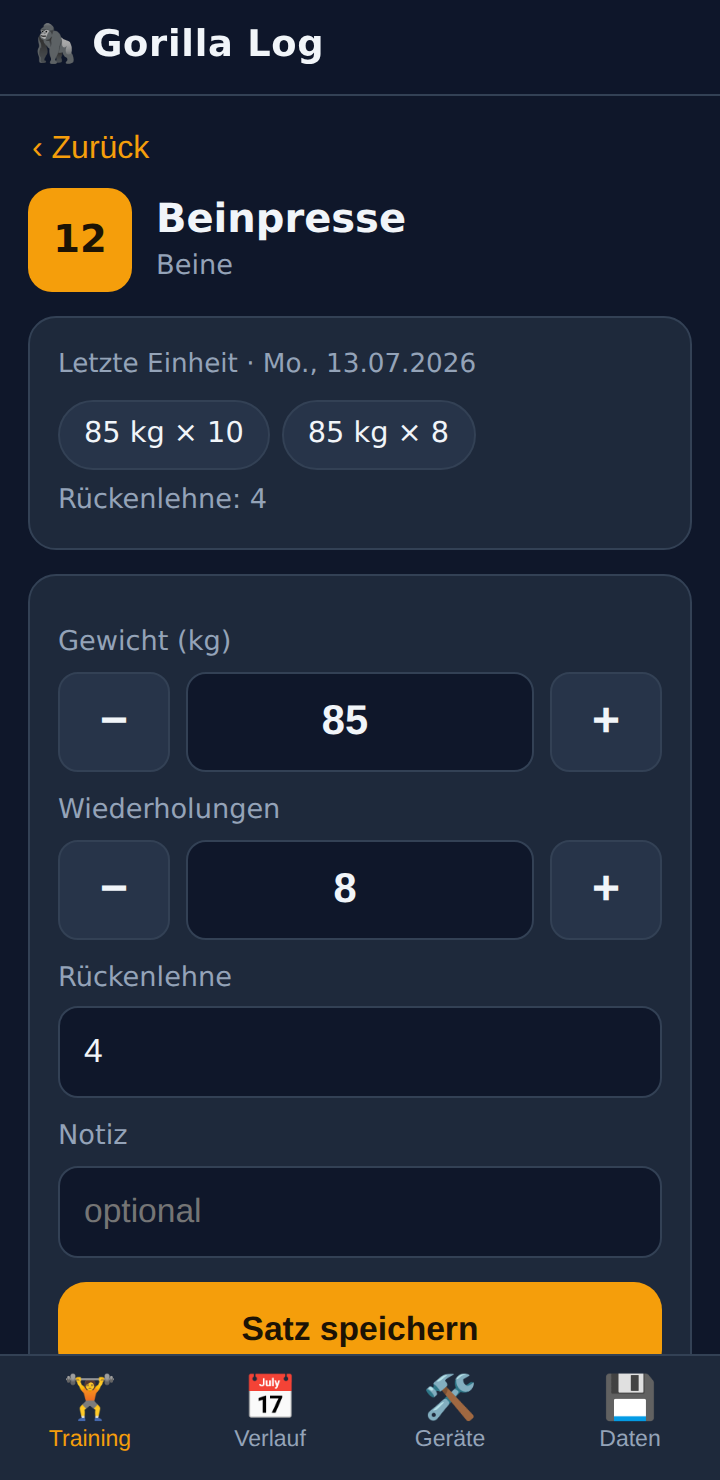
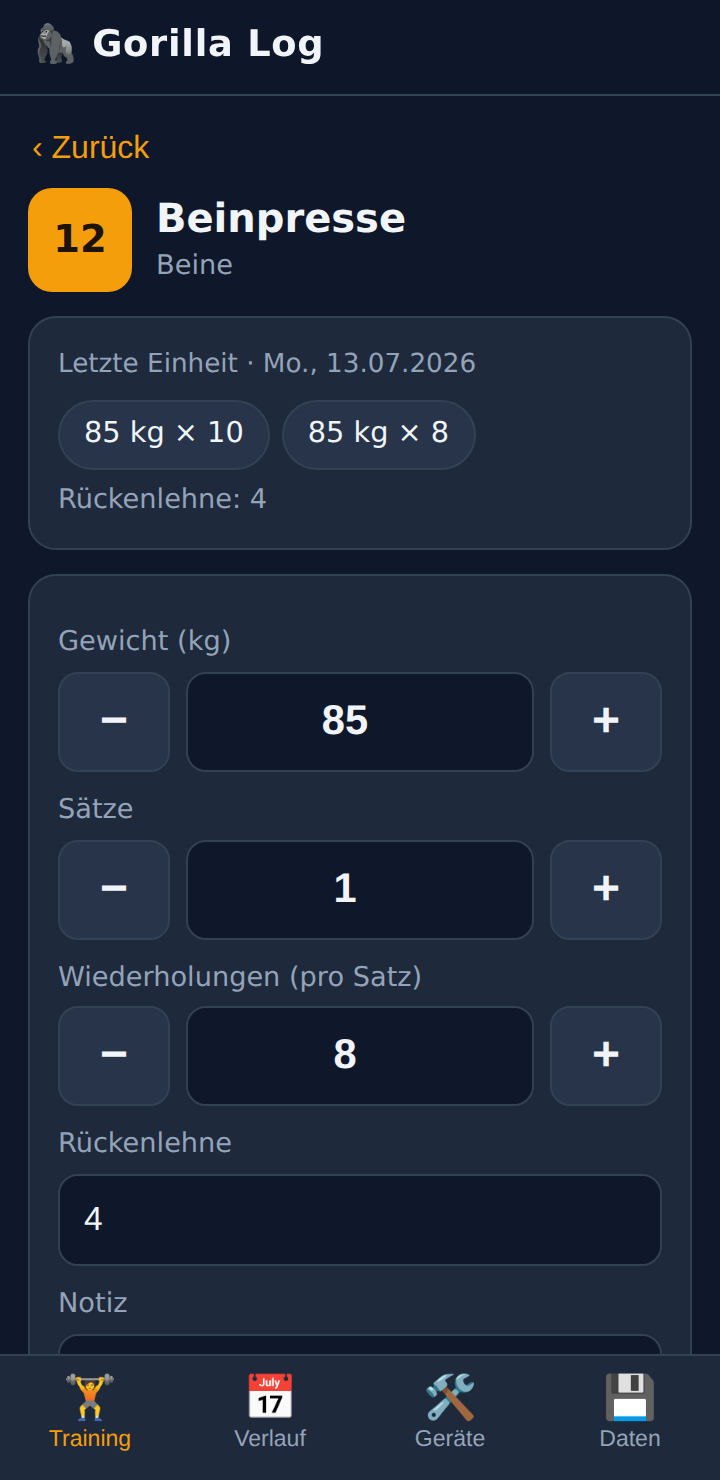
Sätze-Feld beim Erfassen: mehrere Sätze auf einmal speichern (v1.0.2)
Neben Gewicht und Wiederholungen gibt es jetzt einen Sätze-Steller
(1–20). Ein Tipp auf 'Speichern' legt entsprechend viele einzelne
Satz-Einträge an – im Verlauf bleiben sie einzeln sicht- und löschbar.
Der Knopf zeigt die Anzahl an ('3 Sätze speichern').

Screenshot und README aktualisiert, E2E-Test für Block-Speichern
ergänzt, Cache-Version erhöht.

diff --git a/app.js b/app.js
@@ -4,7 +4,7 @@
  */
 'use strict';
 
-const APP_VERSION = '1.0.1';
+const APP_VERSION = '1.0.2';
 const SPEICHER_SCHLUESSEL = 'gorillalog.v1';
 const MUSKELGRUPPEN = ['Brust', 'Rücken', 'Schultern', 'Arme', 'Beine', 'Rumpf', 'Ganzkörper', 'Cardio'];
 const RESERVIERTE_NAMEN = new Set(['__proto__', 'constructor', 'prototype']);
@@ -425,6 +425,10 @@ function renderGeraetAnsicht(geraet) {
     type: 'number', inputmode: 'decimal', step: '0.5', min: '0', max: '2000',
     value: letzter ? String(letzter.kg) : '20', 'aria-label': 'Gewicht in kg',
   });
+  const saetzeFeld = el('input', {
+    type: 'number', inputmode: 'numeric', step: '1', min: '1', max: '20',
+    value: '1', 'aria-label': 'Anzahl Sätze',
+  });
   const wdhFeld = el('input', {
     type: 'number', inputmode: 'numeric', step: '1', min: '1', max: '10000',
     value: letzter ? String(letzter.wdh) : '10', 'aria-label': 'Wiederholungen',
@@ -434,8 +438,10 @@ function renderGeraetAnsicht(geraet) {
     const wert = zahlLesen(feld.value);
     const neu = Math.min(max, Math.max(min, (Number.isFinite(wert) ? wert : min) + richtung * schritt));
     feld.value = String(Math.round(neu * 100) / 100);
+    feld.dispatchEvent(new Event('input'));
   };
   const kgStellen = stelle(kgFeld, 2.5, 0, 2000);
+  const saetzeStellen = stelle(saetzeFeld, 1, 1, 20);
   const wdhStellen = stelle(wdhFeld, 1, 1, 10000);
 
   const einstFelder = new Map();
@@ -453,30 +459,42 @@ function renderGeraetAnsicht(geraet) {
   const speichernKnopf = el('button', { type: 'button', class: 'btn btn-primaer' }, 'Satz speichern');
   const heuteBereich = el('div');
 
+  const knopfText = () => {
+    const n = zahlLesen(saetzeFeld.value);
+    return Number.isInteger(n) && n > 1 ? `${n} Sätze speichern` : 'Satz speichern';
+  };
+  saetzeFeld.addEventListener('input', () => { speichernKnopf.textContent = knopfText(); });
+
   speichernKnopf.addEventListener('click', () => {
     const kg = zahlLesen(kgFeld.value);
+    const saetze = zahlLesen(saetzeFeld.value);
     const wdh = zahlLesen(wdhFeld.value);
     if (!Number.isFinite(kg) || kg < 0 || kg > 2000) { alert('Bitte ein gültiges Gewicht (0–2000 kg) eingeben.'); return; }
+    if (!Number.isInteger(saetze) || saetze < 1 || saetze > 20) { alert('Bitte eine gültige Satz-Anzahl (1–20) eingeben.'); return; }
     if (!Number.isInteger(wdh) || wdh < 1 || wdh > 10000) { alert('Bitte gültige Wiederholungen (ganze Zahl ab 1) eingeben.'); return; }
     const einst = {};
     for (const [feldName, eingabe] of einstFelder) {
       const wert = eingabe.value.trim().slice(0, 60);
       if (wert) einst[feldName] = wert;
     }
-    daten.log.push({
-      id: neuId(), ts: Date.now(), gid: geraet.id,
-      kg: Math.round(kg * 100) / 100, wdh, einst,
-      notiz: notizFeld.value.trim().slice(0, 500),
-    });
+    const notiz = notizFeld.value.trim().slice(0, 500);
+    const basisTs = Date.now();
+    for (let i = 0; i < saetze; i++) {
+      daten.log.push({
+        id: neuId(), ts: basisTs + i, gid: geraet.id,
+        kg: Math.round(kg * 100) / 100, wdh, einst: { ...einst }, notiz,
+      });
+    }
     if (speichere()) {
       if (navigator.vibrate) navigator.vibrate(40);
-      speichernKnopf.replaceChildren(el('span', { class: 'ok-blitz' }, '✓ gespeichert'));
+      speichernKnopf.replaceChildren(el('span', { class: 'ok-blitz' },
+        saetze > 1 ? `✓ ${saetze} Sätze gespeichert` : '✓ gespeichert'));
     } else {
-      // Eintrag bleibt im Arbeitsspeicher (Export weiterhin möglich), aber
+      // Einträge bleiben im Arbeitsspeicher (Export weiterhin möglich), aber
       // kein falsches Erfolgssignal zeigen.
       speichernKnopf.replaceChildren('⚠ nicht gespeichert');
     }
-    setTimeout(() => speichernKnopf.replaceChildren('Satz speichern'), 1400);
+    setTimeout(() => speichernKnopf.replaceChildren(knopfText()), 1400);
     renderHeuteSaetze(heuteBereich, geraet);
   });
 
@@ -486,7 +504,12 @@ function renderGeraetAnsicht(geraet) {
       el('button', { type: 'button', 'aria-label': 'Gewicht verringern', onclick: () => kgStellen(-1) }, '−'),
       kgFeld,
       el('button', { type: 'button', 'aria-label': 'Gewicht erhöhen', onclick: () => kgStellen(1) }, '+')),
-    el('label', null, 'Wiederholungen'),
+    el('label', null, 'Sätze'),
+    el('div', { class: 'steller' },
+      el('button', { type: 'button', 'aria-label': 'Sätze verringern', onclick: () => saetzeStellen(-1) }, '−'),
+      saetzeFeld,
+      el('button', { type: 'button', 'aria-label': 'Sätze erhöhen', onclick: () => saetzeStellen(1) }, '+')),
+    el('label', null, 'Wiederholungen (pro Satz)'),
     el('div', { class: 'steller' },
       el('button', { type: 'button', 'aria-label': 'Wiederholungen verringern', onclick: () => wdhStellen(-1) }, '−'),
       wdhFeld,

diff --git a/sw.js b/sw.js
@@ -5,7 +5,7 @@
  * das ist der einzige atomare Update-Pfad für installierte Apps. */
 'use strict';
 
-const CACHE_NAME = 'gorillalog-v1.0.1';
+const CACHE_NAME = 'gorillalog-v1.0.2';
 const DATEIEN = [
   './',
   './index.html',

diff --git a/README.md b/README.md
@@ -15,9 +15,10 @@ Gerät. Der Code besteht aus reinem HTML/CSS/JavaScript ohne einzige Abhängigke
 
 ## Funktionen
 
-- **Schnell erfassen:** Gerät per Nummer oder Name suchen, Gewicht und
-  Wiederholungen mit grossen −/+-Tasten einstellen, Satz speichern. Die Werte
-  des letzten Trainings sind bereits vorbelegt.
+- **Schnell erfassen:** Gerät per Nummer oder Name suchen, Gewicht, Sätze und
+  Wiederholungen mit grossen −/+-Tasten einstellen und mit einem Tipp
+  speichern – einzeln oder als Block (z. B. 3 × 10). Die Werte des letzten
+  Trainings sind bereits vorbelegt.
 - **Letzte Einheit im Blick:** Beim Öffnen eines Geräts erscheinen die Sätze,
   Einstellungen und Notizen vom letzten Mal.
 - **Geräte-Einstellungen merken:** Pro Gerät frei definierbare Felder wie